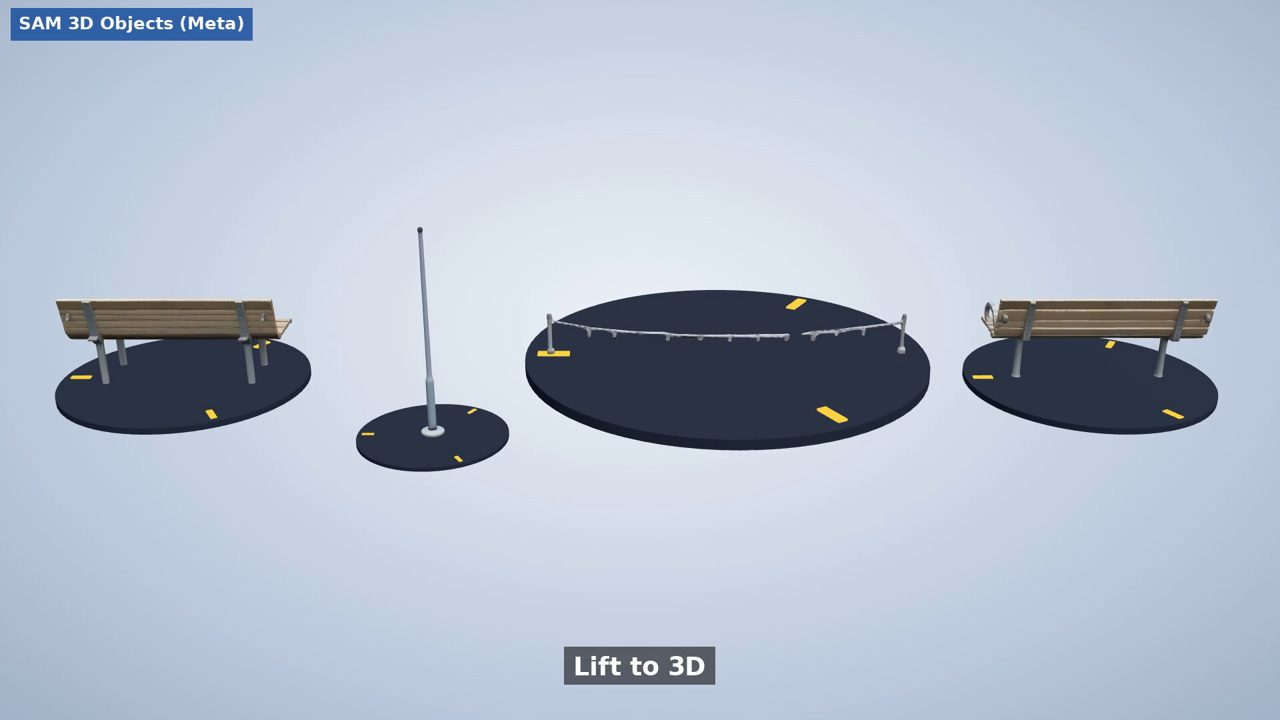
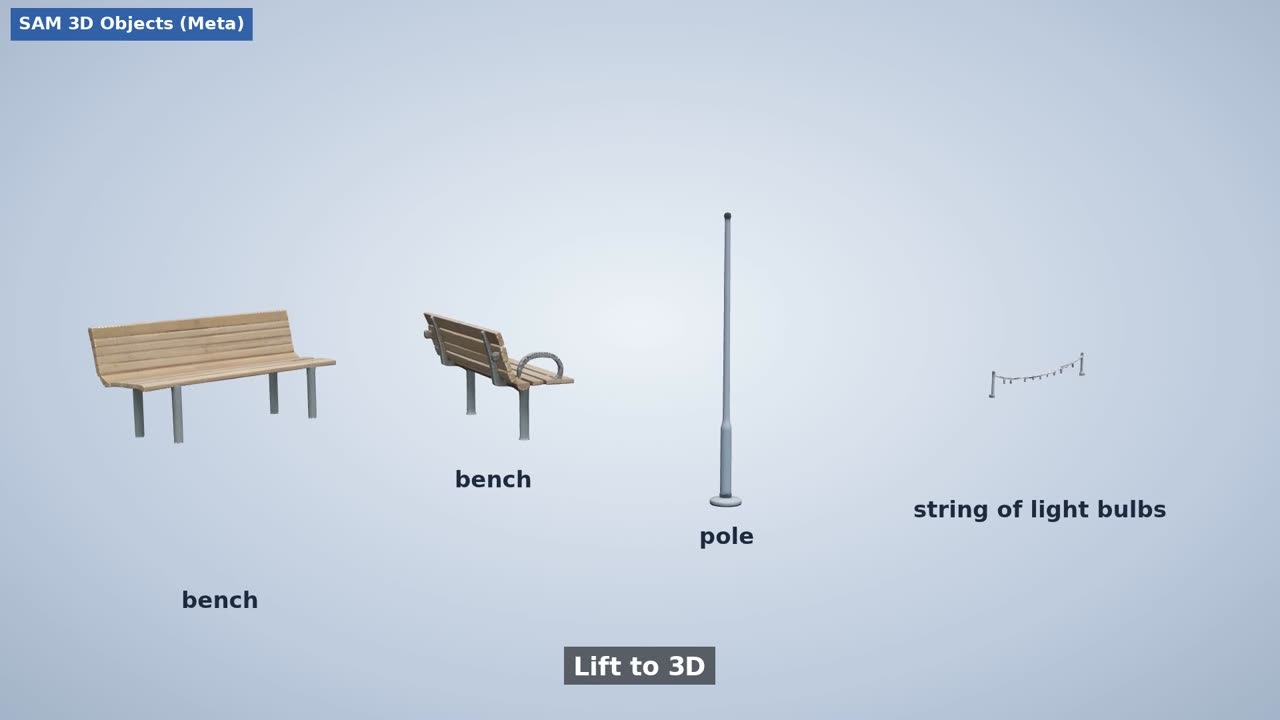
Promo docs: 1a jump cut, 2b and 2c reuse the earlier film's footage, scenes 3 and 4 merged into one map scene - Part of CC-133

diff --git a/docs/promo-storyboard.md b/docs/promo-storyboard.md
@@ -50,21 +50,24 @@
 
 | Part | Length | What the viewer sees | Overlay |
 |---|---|---|---|
-| 1a | 4 s or less | Start on the globe, zoom in to the top level, place a pin over Shibuya (the exact spot of our prepared course), click to show a street view photo | "Drop a pin anywhere" |
+| 1a | 3.4 s (4 s at most) | Start on the globe; the moment Earth fills the screen, the film jumps straight to street level over Shibuya (no flat-map zoom, no loading flicker); place a pin on the exact spot of our prepared course, click to show a street view photo | "Drop a pin anywhere" |
 | 1b | about 3 s or less | The slice runs in real time and ends by itself; faster is better; no jerking | "Slice this place" |
 | 1c | 8 s at most | Move the height slider up and down so the extrusions change colour; put it back to the default; scroll down; click "Send to World Editor"; the editor opens with the world fitted in view | "Cut a height" |
 
 - Subheadings kept: Drop a pin anywhere, Slice this place, Cut a height, Send to the World Editor.
 - Street photos are Mapillary's, shown live under their terms (no copies).
+- 1a cut (owner, 2026-11-05): the zoom is cut after the globe fills the screen; the 17 flickering frames and the whole flat-map zoom are gone; the part after the jump runs at about 1.3x.
+- Decided (owner, 2026-11-05): the Mapillary photo in 1a is fine; the runner standing still at the start of the opening run is fine.
+- Speeds: every clip is sped up from the stepped clock; nothing runs at real demo speed (1c and the opening run are the closest, about 1.4x and 1.6x).
 - **Music lane:** not decided.
 
-## Scene 2: Create your obstacles (5 s, filmed 2026-11-05)
+## Scene 2: Create your obstacles (6 s, filmed 2026-11-05)
 
 | Part | Length | What the viewer sees | Overlay | Chip (top left) |
 |---|---|---|---|---|
 | 2a | 1 s | Community, Make your own: the photo of the benches, the pole and the light bulbs is chosen and appears | "Upload your image" | none |
-| 2b | 1 s | Segment Objects: SAM 3 outlines the things on the photo; a few are pointed at and picked | "Select of your regions or let SAM 3 decide" | SAM 3 (Meta) |
-| 2c | 3 s | The lifted objects (bench, pole, light bulbs, bench) stand in a row, each on its own turntable, and each turns exactly one full round | "Lift to 3D" | SAM 3D Objects (Meta) |
+| 2b | 2 s | The photo of the park: SAM 3 draws a box and a label on each bench, the pole and the light bulbs, then cuts them out (reused footage, see below) | "Select of your regions or let SAM 3 decide" | SAM 3 (Meta) |
+| 2c | 3 s | The cut-outs lift to 3D: the bench, pole and light bulbs appear in a row, then a bench turns on its own (reused footage, see below) | "Lift to 3D" | SAM 3D Objects (Meta) |
 
 - Layout rule for every clip with a chip (owner, 2026-11-05):
   - The overlay text goes at the bottom of the frame (centred, 96 px up from the bottom edge).
@@ -72,34 +75,34 @@
   - They sit in different halves of the picture, so they can never overlap.
   - The layout is stored in the manifest (`layout`), used by the build step (`scripts/promo-v2-scene2-build.mjs`) and proved by `python3 scripts/promo-v2/layout-check.py`.
 - Photo: demo photo 1 (Jonn Leffmann, Wikimedia Commons, CC BY 3.0), the blurred copy; it holds both the benches and the light bulbs.
-- 2a and 2b are the real app (Community, Make your own).
-  - Only the answer of the finder is stood in: the prepared SAM 3 result of this photo (the seven benches and poles it found), plus the prepared bulb-string cut-out.
-  - Every run is therefore the same, and no paid job runs.
-- 2c is the lift stage (`scripts/promo-v2/lift-stage.html?row=1`), driven by the clock, with the real lifted `.glb` files.
-- Clips are recorded in real time on the stepped clock and retimed afterwards by the game clock; 2a and 2b are sped up.
-- Clip script: `scripts/promo-v2/scene2-community.mjs` (2a, 2b) and `scripts/promo-v2/lift.mjs` with `ROW=1` (2c); the click marker is `scripts/promo-v2/marker.mjs`.
+- 2a is the real app (Community, Make your own); the finder answer is the prepared SAM 3 result, so every run is the same and no paid job runs.
+- 2b and 2c reuse the footage of the earlier film (`promo-v2.mp4`, 0:52 to 1:02), taken from its clean source clip `promo-v2/lift/clip.mp4` (no caption burned in), per the owner (2026-11-05): the look of the selection and the lift is the one the owner already liked.
+  - 2b is source 0 to 8.4 s played in 2 s (about 4.2x); 2c is source 8.4 to 14.4 s played in 3 s (2x).
+  - Both are cut from one continuous run at the same point, so the join has no jump; the bottom overlay and the top-left chip are burned in again.
+  - The first plan (2b 1 s) was too fast to read; 2b is 2 s.
+  - The older own-footage versions are kept as `clip-old.mp4` beside the new ones.
+- Joins between clips (owner worry, 2026-11-05): separate clips can join badly, so a scene is built as one run and only scene edges get a short dissolve; 2b and 2c already join as one run (`promo-v2b/2bc.mp4`).
+- Clips are recorded in real time on the stepped clock and retimed afterwards by the game clock; 2a is sped up.
+- Clip script: `scripts/promo-v2/scene2-community.mjs` (2a; its own 2b is kept as the old version) and `scripts/promo-v2/lift.mjs` (the source of the reused 2b and 2c); the click marker is `scripts/promo-v2/marker.mjs`.
 - Files (not in git): `../conquercourse-assets/promo-v2b/<clip>/` with the raw frames, `marks.json`, `clip.mp4`, `thumb.jpg`; the list is `manifest.json` there.
 - Stills: `docs/evidence/cc-133-promo-scene2/`.
 - **Music lane:** not decided.
 
-## Scene 3: Build your course (time not set)
+## Scene 3: Build and refine your course (time not set; was scenes 3 and 4)
 
-- Choose a view (Top down and 3D)
-- Add objects
+- One scene on one map (owner, 2026-11-05): building and refining need the same map, so they are filmed as one run in the same editor with the same course; no cut back to a fresh map between them.
+- Build your course:
+  - Choose a view (Top down and 3D)
+  - Add objects
+- Refine your course:
+  - Repair with Design Partner
+  - Accept suggestions
+  - Plan this lane
 - Camera: not set.
-- Overlay: not set.
+- Overlay: not set (one overlay per subheading, as in scenes 1 and 2).
 - **Music lane:** not decided.
 
-## Scene 4: Refine your course (time not set)
-
-- Repair with Design Partner
-- Accept suggestions
-- Plan this lane
-- Camera: not set.
-- Overlay: not set.
-- **Music lane:** not decided.
-
-## Scene 5: Set a record (time not set)
+## Scene 4: Set a record (time not set)
 
 - Chase a record
 - Stretch your limits
@@ -107,21 +110,21 @@
 - Overlay: not set.
 - **Music lane:** not decided.
 
-## Scene 6: Unleash your creativity (time not set)
+## Scene 5: Unleash your creativity (time not set)
 
 - X built-in objects, infinite combinations (X is counted from the editor before the text is fixed)
 - Camera: not set.
 - Overlay: not set.
 - **Music lane:** not decided.
 
-## Scene 7: Indulge your curiosity (time not set)
+## Scene 6: Indulge your curiosity (time not set)
 
 - 7 year olds to University
 - Camera: not set.
 - Overlay: not set.
 - **Music lane:** not decided.
 
-## Scene 8: Close (time not set)
+## Scene 7: Close (time not set)
 
 - Zoom out of the globe and darken
 - The splash screen again, with the website link added
@@ -132,6 +135,7 @@
 ## Decisions so far
 
 - Order: Create your obstacles comes before Build your course (the owner agreed the swap).
+- Scenes 3 and 4 are merged into one, "Build and refine your course", on one map (owner, 2026-11-05); later scenes moved up one number (Set a record is 4, Unleash your creativity 5, Indulge your curiosity 6, Close 7).
 - The opening replaces the separate "ideal-run ghost" hook, because it already shows the ghost.
 - First scene: the new 1-second splash (see above); last scene: the same splash plus the website link.
 - Total length: not set; the opening is 12 s.

diff --git a/docs/ASSETS.md b/docs/ASSETS.md
@@ -956,7 +956,7 @@ Photo dots on the Slicer map (CC-133): no new files; the dots and cones are draw
 | `docs/evidence/cc-133-promo-v2/course_run.jpg` | still from the promo v2 film: the lifted bench and bulbs course with Debug on (evidence only) | 2026-11-05 | `scripts/promo-v2/course-run.mjs`, headless Chromium | None | Ours; bench-and-bulbs photo by Jonn Leffmann, CC BY 3.0 (see the demo-photo row) |
 | `docs/evidence/cc-133-promo-scene2/2b.jpg` | still from promo scene 2b: the real Community page after Segment Objects, with the click marker, the "SAM 3 (Meta)" chip top left and the overlay at the bottom (evidence only) | 2026-11-05 | `scripts/promo-v2/scene2-community.mjs` and `scripts/promo-v2-scene2-build.mjs`, headless Chromium on a Vultr VM | None (the finder's answer is the prepared SAM 3 result, no paid job) | Ours (UI/game); photo by Jonn Leffmann, CC BY 3.0, people blurred (see the demo-photo row) |
 | `docs/evidence/cc-133-promo-scene2/2c.jpg` | still from promo scene 2c: the lifted bench, pole, bulb string and bench in a row on turntables, with the "SAM 3D Objects (Meta)" chip and "Lift to 3D" (evidence only) | 2026-11-05 | `scripts/promo-v2/lift.mjs` with `ROW=1` and `lift-stage.html?row=1` | None | Ours; lifted objects come from photo 1 by Jonn Leffmann, CC BY 3.0 (see the demo-photo row) |
-| `../conquercourse-assets/promo-v2b/{2a,2b,2c}/` (not in git: frames, `marks.json`, `clip.mp4`, `thumb.jpg`) and `promo-v2b/manifest.json` | the three clips of promo scene 2, silent, 1920 x 1080, 30 fps (1 s, 1 s, 3 s) | 2026-11-05 | scripts above | None | Ours; photo 1 by Jonn Leffmann, CC BY 3.0; Mapillary is not used in this scene |
+| `../conquercourse-assets/promo-v2b/{2a,2b,2c}/` (not in git: frames, `marks.json`, `clip.mp4`, `thumb.jpg`) and `promo-v2b/manifest.json` | the three clips of promo scene 2, silent, 1920 x 1080, 30 fps (1 s, 2 s, 3 s); 2b and 2c are cut from `promo-v2/lift/clip.mp4` (the earlier film's lift footage, ours) with ffmpeg | 2026-11-05 | scripts above, plus `ffmpeg` cuts of `promo-v2/lift/clip.mp4` | None | Ours; photo 1 by Jonn Leffmann, CC BY 3.0; Mapillary is not used in this scene |
 | `../conquercourse-assets/promo-v2b/inputs/cutout_bulbs.png` (not in git) | the prepared SAM 3 mask of the bulb string, cropped to its box (stand-in for the finder's answer in scene 2b) | 2026-11-05 | cropped from `eval-full/demo-lifts/lifts/p1_light_bulbs/mask.png` | None | Ours; derived from photo 1 by Jonn Leffmann, CC BY 3.0 |
 | `docs/evidence/cc-133-promo-v2/labs.jpg` | still from the promo v2 film: the Labs mind map (evidence only) | 2026-11-05 | `scripts/promo-v2/labs.mjs`, headless Chromium | None | Ours |
 | `docs/evidence/cc-133-promo-entrance/frame-000-pip-and-juno.jpg`, `frame-149-stage.jpg` | stills (960 px, about 50 KB each) from the promo clip of The Grand Entrance walk: the first picture with the 3D Pip and Juno, and the last picture at the stage (evidence only; the game does not use them) | 2026-11-05 | `scripts/promo-v2/entrance.mjs` on the page `?promo=1`, headless Chromium on a test machine | None | Ours; the walkers are the game's own rigged characters and the card texts are ours |

diff --git a/docs/promo-v2.md b/docs/promo-v2.md
@@ -87,7 +87,8 @@
 ## Scene 2 clips (promo v2b)
 
 - Scene 2 (Create your obstacles) is filmed apart, into `../conquercourse-assets/promo-v2b/`; plan and layout rule: [promo storyboard](promo-storyboard.md).
-- Capture: `scripts/promo-v2/scene2-community.mjs` (2a, 2b, real app, finder answered by the prepared SAM 3 result) and `ROW=1 node scripts/promo-v2/lift.mjs` (2c).
+- Capture: `scripts/promo-v2/scene2-community.mjs` (2a, real app, finder answered by the prepared SAM 3 result).
+- 2b and 2c are cut from the clean `promo-v2/lift/clip.mp4` (the earlier film's 0:52 to 1:02, owner's pick, 2026-11-05): source 0 to 8.4 s in 2 s, then 8.4 to 14.4 s in 3 s, with the bottom overlay and top-left chip burned in again (ffmpeg `drawtext`, same layout as the build step).
 - Build: `node scripts/promo-v2-scene2-build.mjs` retimes the frames by the game clock and burns the bottom overlay and the top-left chip.
 - Layout proof: `python3 scripts/promo-v2/layout-check.py`.
 - The click marker is `scripts/promo-v2/marker.mjs`.
@@ -102,7 +103,8 @@
 
 - Scripts: `scripts/promo-v2/scene1.mjs` (clips a, b, c) and `scripts/promo-v2/open-run.mjs`; params in `scripts/promo-v2/params/scene1.json` and `open-run.json`.
 - Every click shows a big yellow ring over the cursor, drawn into the frames by `CLICK_MARKER` in `scripts/promo-v2/lib.mjs` (`S.pressAt`, `S.clickSel`).
-- 1a "Drop a pin anywhere": globe, zoom to the top level, pin at the prepared Shibuya course, then a live Mapillary photo.
+- 1a "Drop a pin anywhere" (3.4 s): globe until Earth fills the screen, then a jump cut to street level, pin at the prepared Shibuya course, then a live Mapillary photo.
+  - The flat-map zoom and its 17 flickering tile frames are cut (owner, 2026-11-05); the part after the jump runs at about 1.3x.
   - The pin coordinates are the place file's own (`public/assets/places/shibuya-tokyo.json`: 35.6595, 139.7005), so the pin lands on the course.
   - The film shows a live Mapillary photo under Mapillary's terms; we do not store it.
 - 1b "Slice this place": the real slice, played in real time and sped up.
